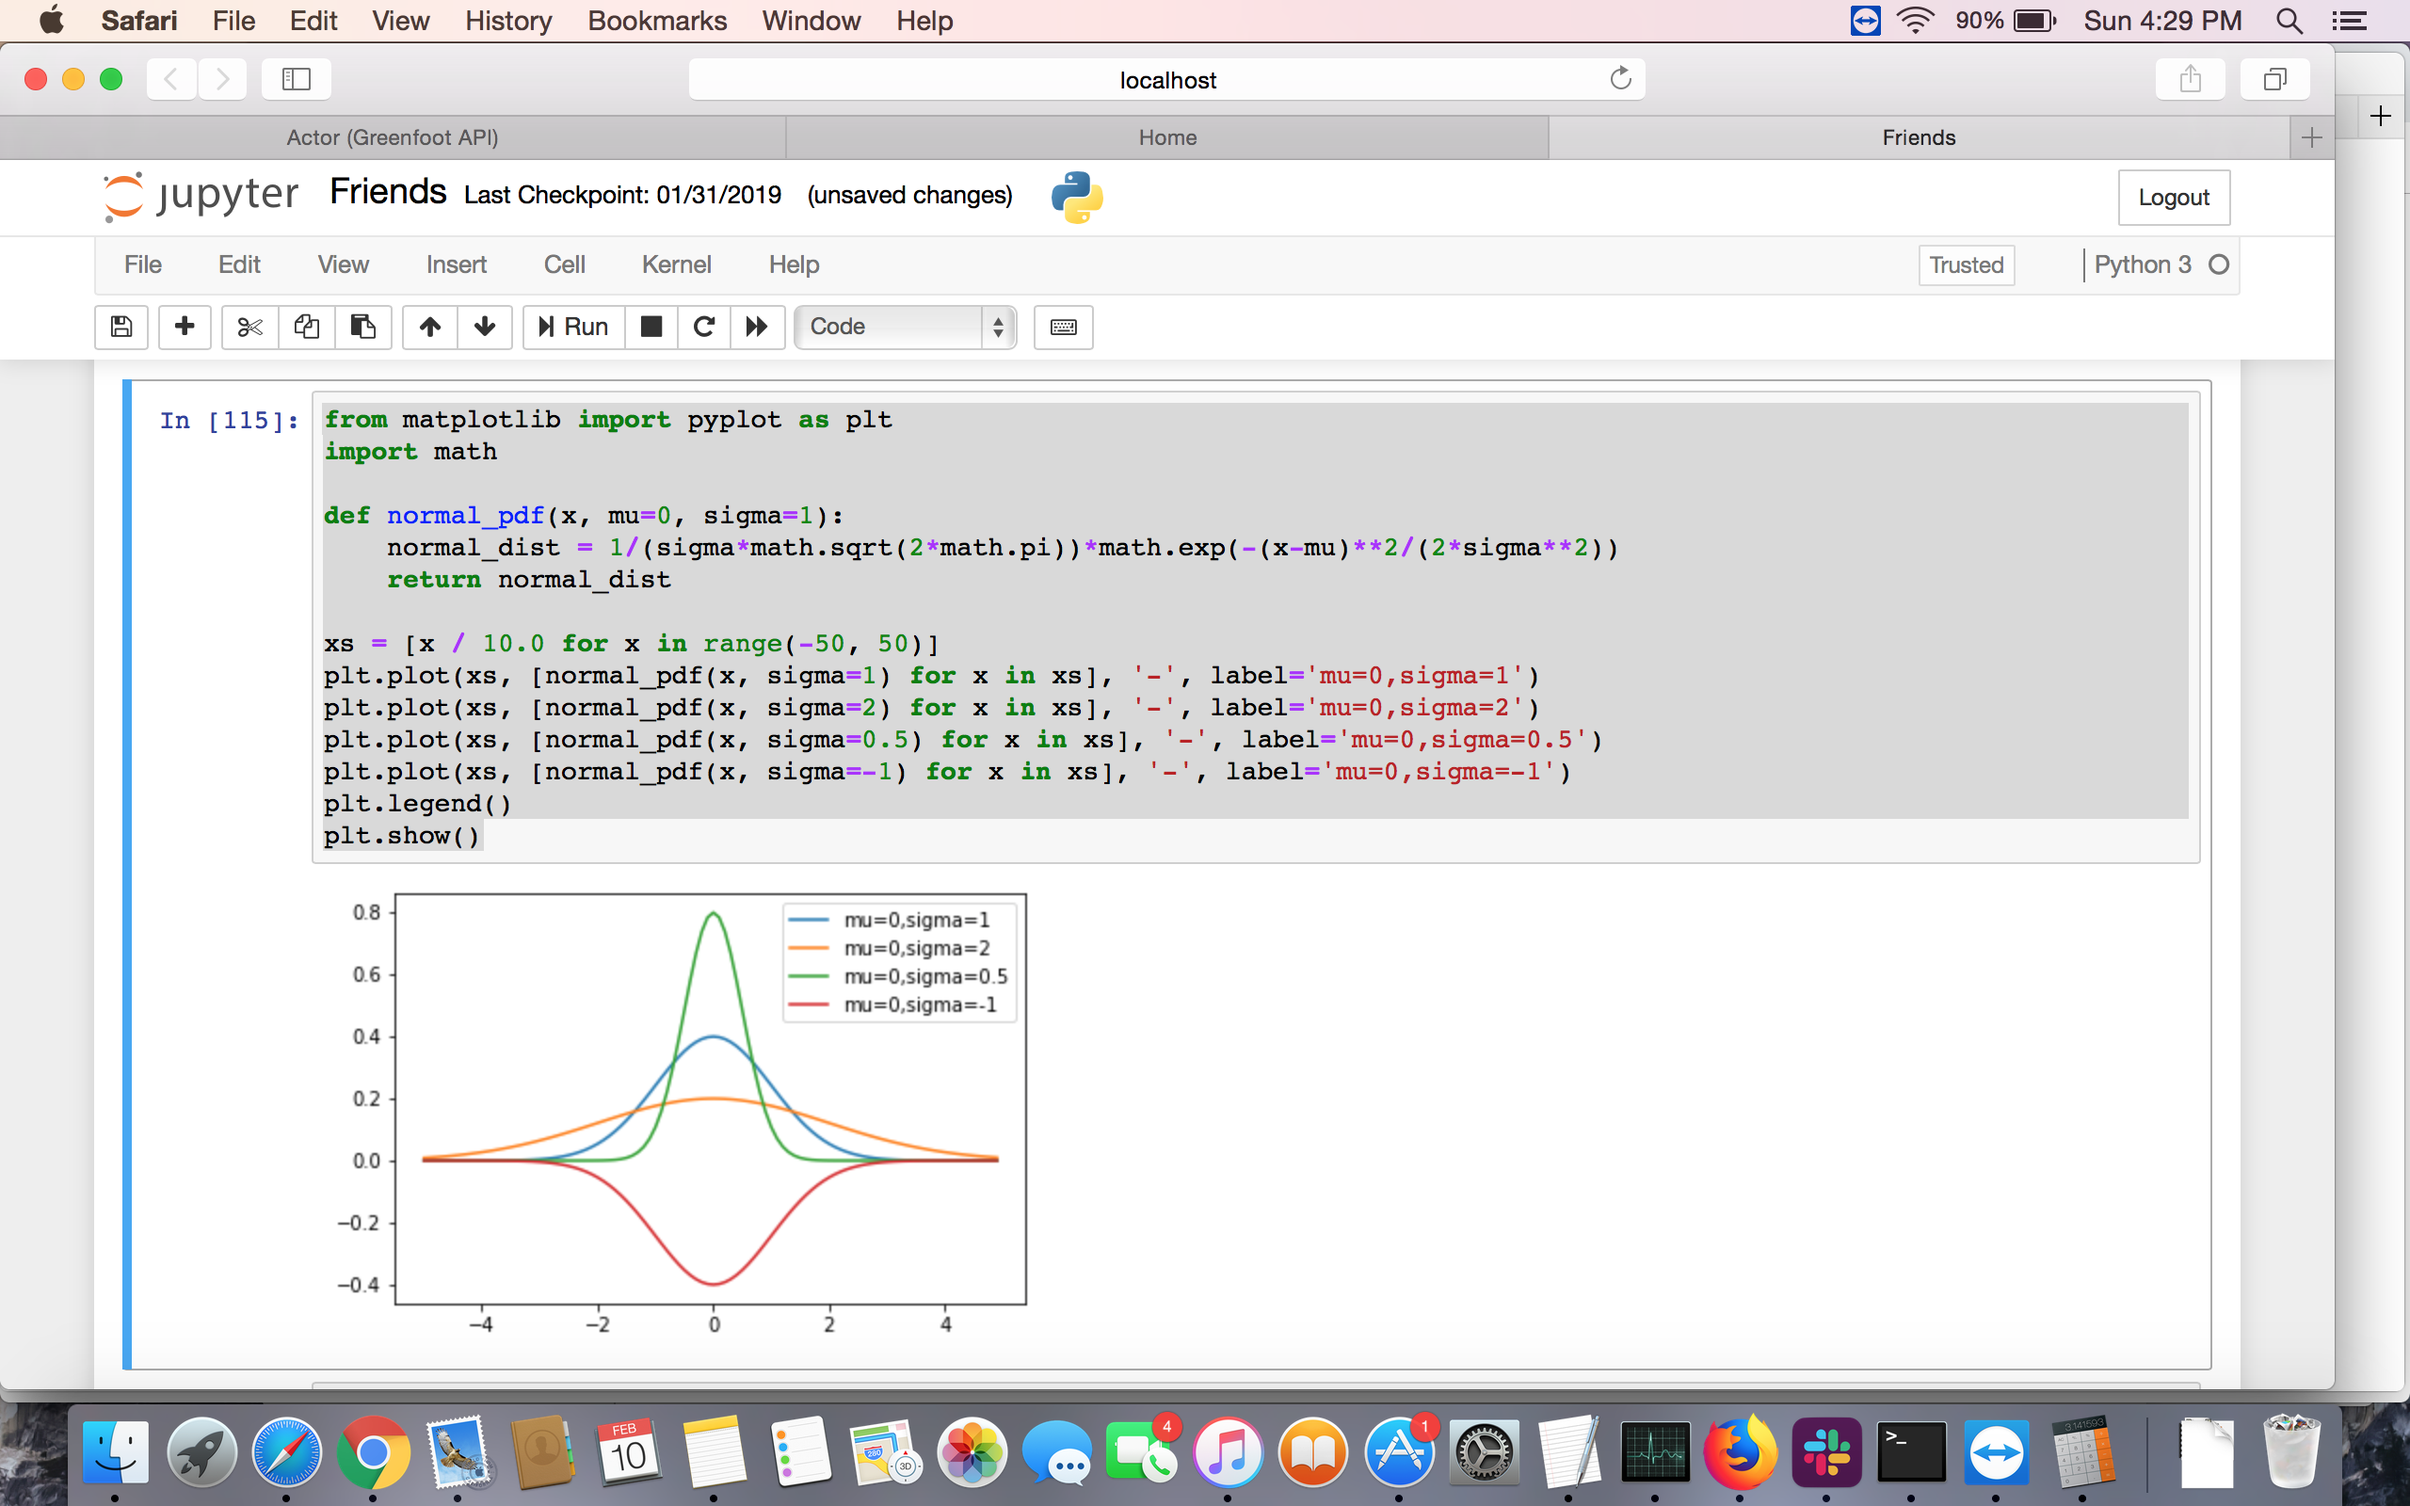
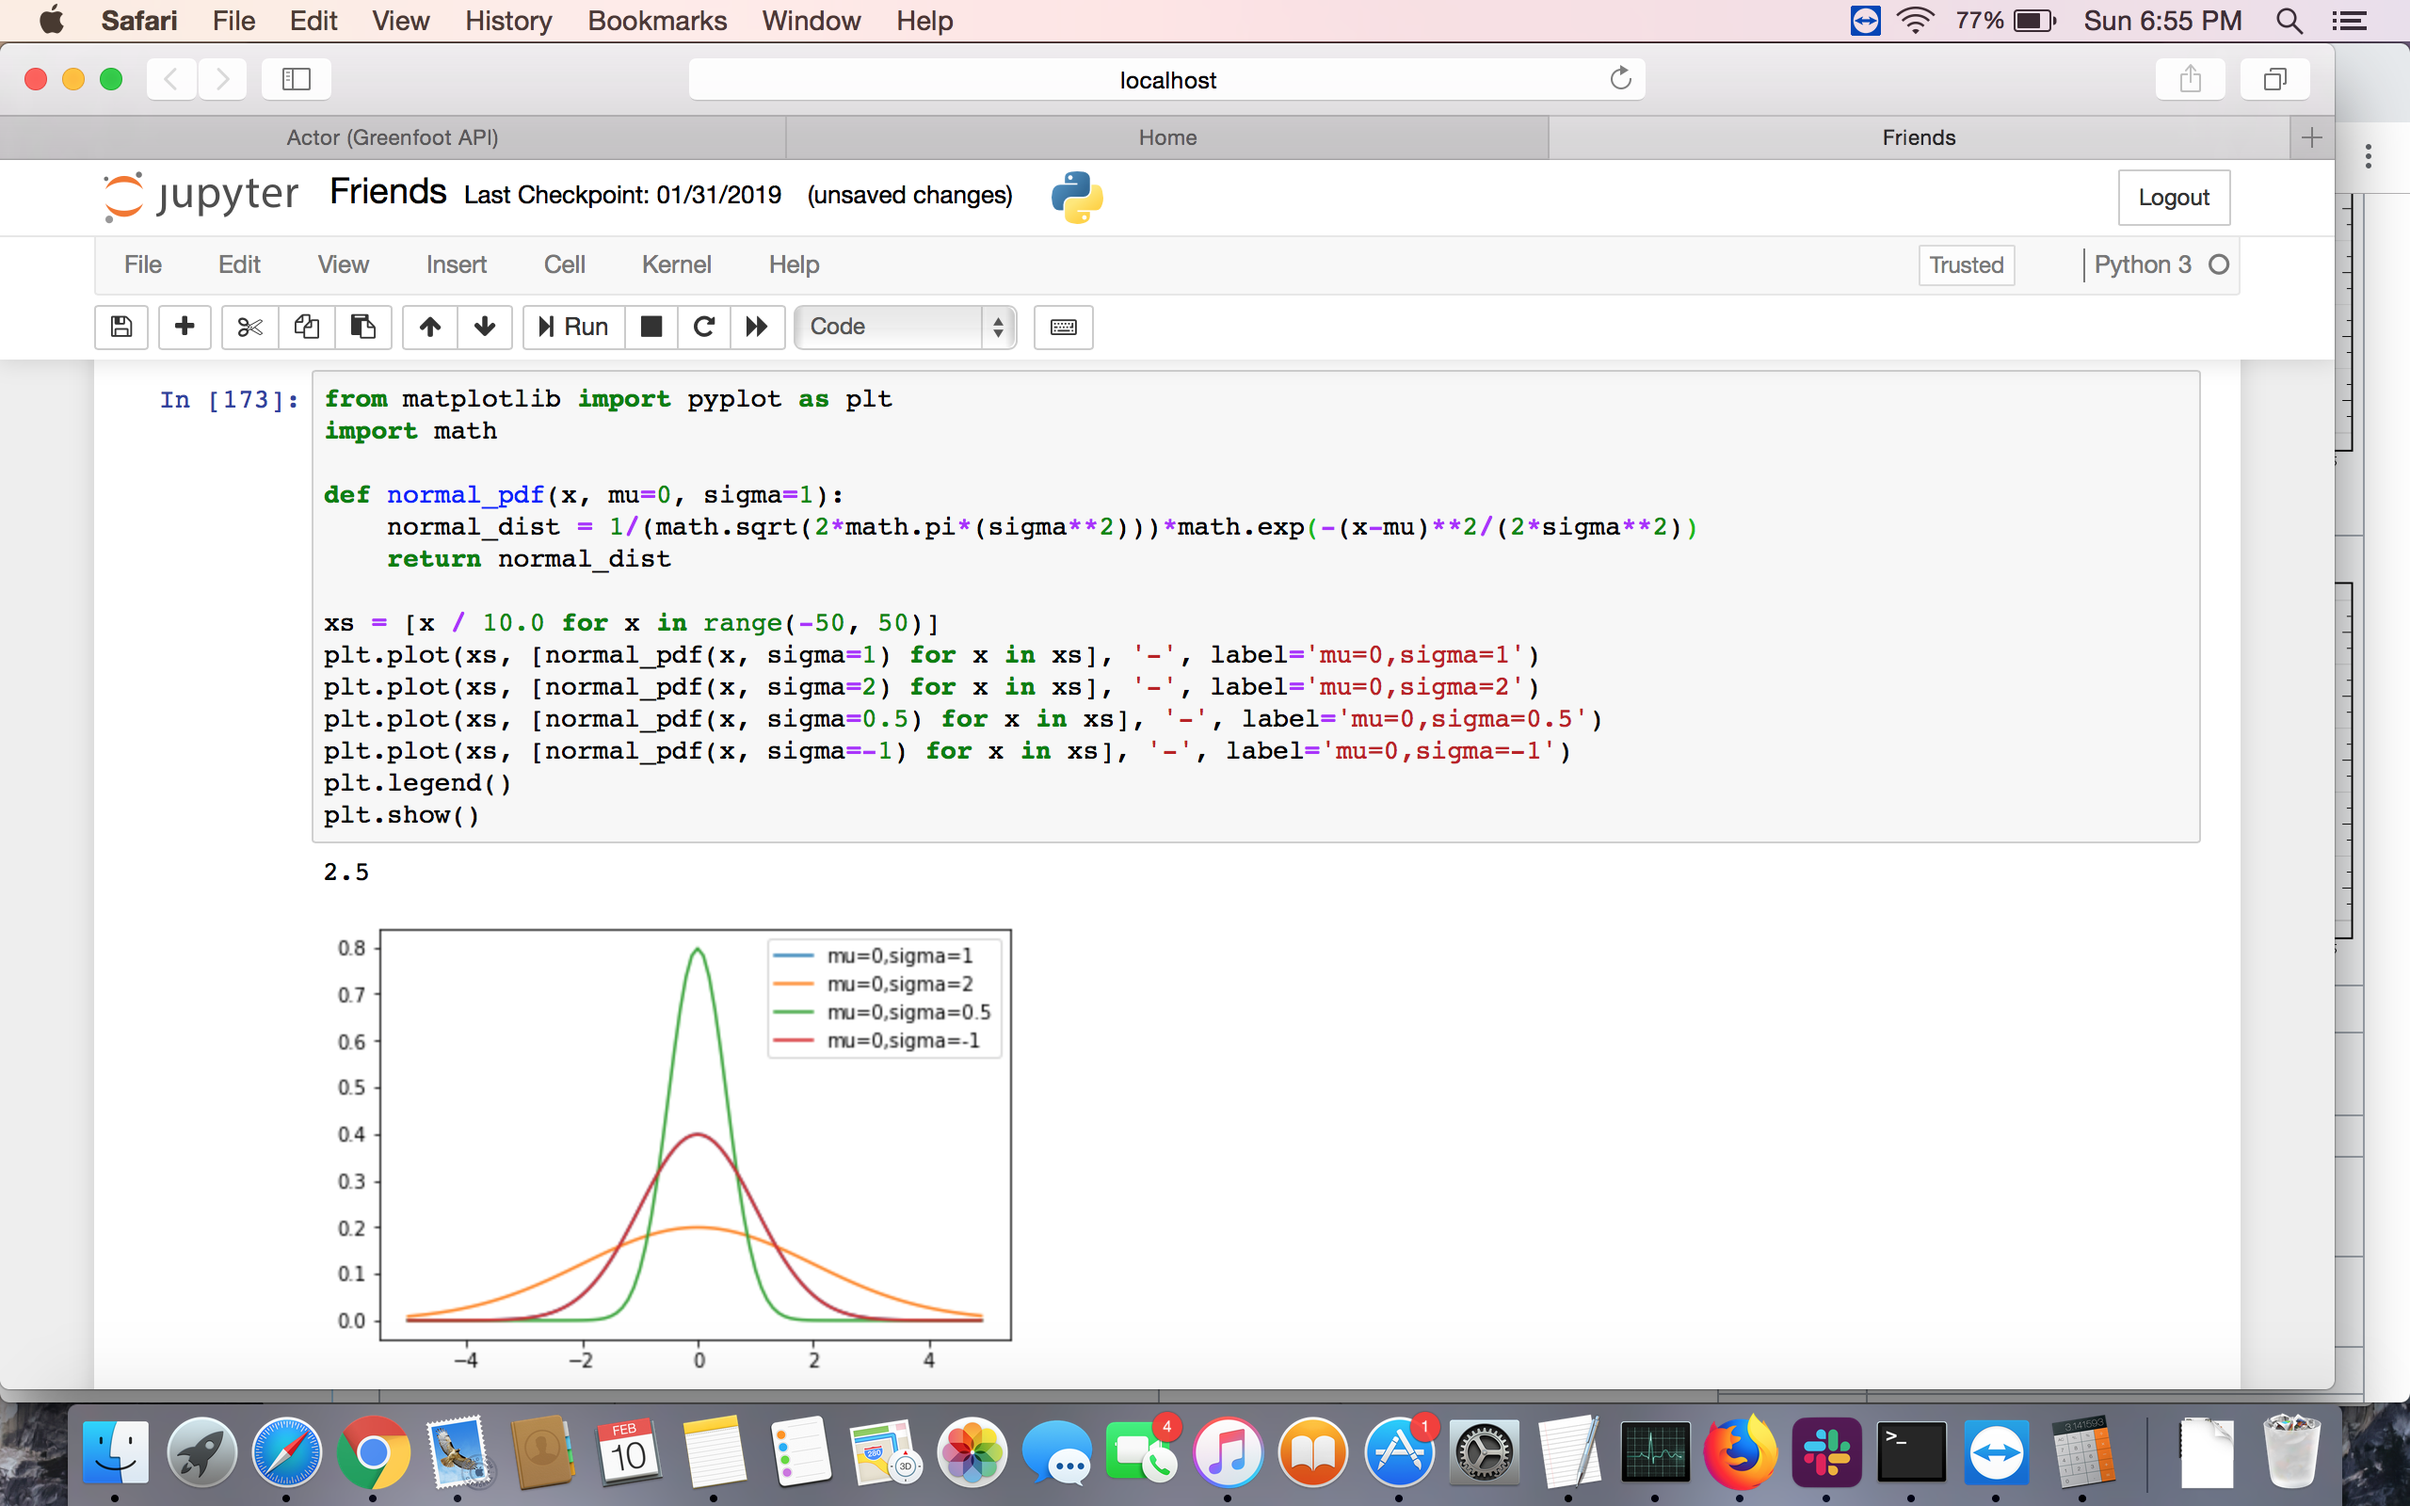
corrected the calcuation part and uploading the updated output

diff --git a/normal_df.py b/normal_df.py
@@ -2,7 +2,7 @@ from matplotlib import pyplot as plt
 import math
 
 def normal_pdf(x, mu=0, sigma=1):
-    normal_dist = 1/(sigma*math.sqrt(2*math.pi))*math.exp(-(x-mu)**2/(2*sigma**2))
+    normal_dist = 1/(math.sqrt(2*math.pi*(sigma**2)))*math.exp(-(x-mu)**2/(2*sigma**2)) 
     return normal_dist
 
 xs = [x / 10.0 for x in range(-50, 50)]
